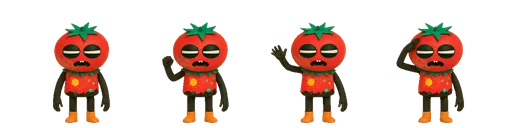
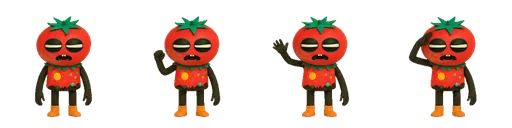
Step 8: the eight bearings and her actions. Her four south facing actions (victory, respawn, cooling, shade drop) re centred on import: her figure slid 60 px across each 256 cell and its feet sat at four heights, now every frame stands on the idle sheet's centre line and foot line, the anchors moved
Claude-Session: https://claude.ai/code/session_01Dzsq6VcPFwq6xCHe23LKTg

diff --git a/index.html b/index.html
@@ -551,7 +551,7 @@ const ASSET_PATHS={
   card_morning_tide:'art/worlds/morning_tide/card.webp', card_midday_blaze:'art/worlds/midday_blaze/card.webp',
   card_tide_pools:'art/worlds/tide_pools/card.webp', card_dunes_at_dusk:'art/worlds/dunes_at_dusk/card.webp', card_eclipse:'art/worlds/eclipse/card.webp',
   hero_s:'art/hero/tomato_s.webp', hero_se:'art/hero/tomato_se.webp', hero_e:'art/hero/tomato_e.webp', hero_ne:'art/hero/tomato_ne.webp', hero_n:'art/hero/tomato_n.webp',
-  hero_respawn:'art/hero/tomato_respawn.webp', hero_victory:'art/hero/tomato_victory.webp', hero_states:'art/hero/exposure_states.webp', face_neutral:'art/hero/face_neutral.webp',
+  hero_respawn:'art/hero/tomato_respawn.webp', hero_victory:'art/hero/tomato_victory.webp', hero_cooling:'art/hero/tomato_cooling.webp', hero_shade_drop:'art/hero/tomato_shade_drop.webp', hero_states:'art/hero/exposure_states.webp', face_neutral:'art/hero/face_neutral.webp',
   trail_classic:'art/hero/trails/ember.png', trail_cool:'art/hero/trails/cool.png', trail_mint:'art/hero/trails/aloe.png', trail_rainbow:'art/hero/trails/rainbow.png',
 };
 /* loaded on demand: each world's ground, horizon, decor sheet and key art; the Angry Sun; the share frames */
@@ -564,6 +564,7 @@ const ASSET_LAZY={
   angry_glare:'art/sun/angry_sun_glare.webp', angry_wind_up:'art/sun/angry_sun_wind_up.webp', angry_lunge:'art/sun/angry_sun_lunge.webp',
   angry_panting:'art/sun/angry_sun_panting.webp', corona:'art/sun/eclipse_corona.webp',
   share_result:'art/sharing/result_square.webp', share_daily:'art/sharing/daily_card.webp',
+  hero_victory_big:'art/hero/tomato_victory_big.webp',
   m_gold:'art/ui/medal_gold.svg', m_silver:'art/ui/medal_silver.svg', m_bronze:'art/ui/medal_bronze.svg',
   sock_shell:'art/ui/progress_shell.png', sock_cone:'art/ui/progress_cone.png', sock_gem:'art/ui/progress_gem.png',
   body_strawberry:'art/hero/strawberry_body.webp', body_orange:'art/hero/orange_body.webp', body_lemon:'art/hero/lemon_body.webp', body_lime:'art/hero/lime_body.webp', body_peach:'art/hero/peach_body.webp', body_cherry:'art/hero/cherry_body.webp', body_bellpepper:'art/hero/bell_pepper_body.webp', body_eggplant:'art/hero/eggplant_body.webp', body_avocado:'art/hero/avocado_body.webp', body_heirloom:'art/hero/heirloom_body.webp', body_pickle:'art/hero/pickle_body.webp', body_golden:'art/hero/golden_body.webp', body_sunburn:'art/hero/sunburn_body.webp',
@@ -668,7 +669,7 @@ const COSMETICS=[
   {id:'crown',name:'Sun Crown',cat:'hat',price:600,color:'#ffd23f',kind:'crown'},
   // exclusive hats — earned by 100%-collecting a whole world (not buyable)
   {id:'shell_crown',name:'Shell Crown',cat:'hat',price:null,earn:0,color:'#f7a8c4',kind:'shell'},
-  {id:'cone_hat',name:'Ice-Cream Hat',cat:'hat',price:null,earn:1,kind:'cone'},
+  {id:'cone_hat',name:'Ice Cream Hat',cat:'hat',price:null,earn:1,kind:'cone'},
   {id:'cool_shades',name:'Cool Shades',cat:'hat',price:null,earn:2,color:'#20242c',kind:'shades'},
   {id:'gem_crown',name:'Gem Crown',cat:'hat',price:null,earn:3,color:'#37b6e0',kind:'gem'},
   {id:'eclipse_halo',name:'Eclipse Halo',cat:'hat',price:null,earn:4,color:'#b48aff',kind:'eclipse'},
@@ -848,7 +849,7 @@ function startLevel(i,opts){ opts=opts||{}; const L=opts.level||LEVELS[i]; li=(o
   const ch=startCharges(L); const feel=FEEL();
   // tag umbrella casters with facing index for wind re-tilt
   let fi=0; const facings={}; for(const c of L.casters){ if(c[0]==='U'){ c.__fi=fi; facings[fi]=c[4]; fi++; } }
-  run={ L,t:0,az:L.sun.azC,deaths:0,screenT:0,darkT:0,slowT:0,shake:0,lastSafe:true,grazeT:0,sinceSafe:0,graceT:1.0,
+  run={ L,t:0,act:null,hotAt:-9,az:L.sun.azC,deaths:0,screenT:0,darkT:0,slowT:0,shake:0,lastSafe:true,grazeT:0,sinceSafe:0,graceT:1.0,
         rings:[],floats:[],flash:0,flashC:'255,80,40',
         shadePolys:[],shadeEll:[],popups:[],trail:[],parts:[],facings,
         movers:(L.movers||[]).map(m=>({...m})),
@@ -962,7 +963,7 @@ function doDash(){ const f=run.feel; if(P.dashStock>0){P.dashStock--;} else { if
   freeze=Math.max(freeze, save.settings.reduce?0.03:0.045); // dash hitstop — the burst "fires"
   spawnParts(P.x,P.y,7,'255,210,150',150,0.35);
   if(!save.settings.reduce) run.shake=Math.max(run.shake,0.06); }
-function drop(){ if(run.charges.shade>0){ run.popups.push({x:P.x,y:P.y,r:82}); run.charges.shade--; SFX.shade(); spawnParts(P.x,P.y,8,'80,120,180',120,0.5); sync(); } else SFX.deny(); }
+function drop(){ if(run.charges.shade>0){ run.popups.push({x:P.x,y:P.y,r:82}); run.charges.shade--; act('shade_drop'); SFX.shade(); spawnParts(P.x,P.y,8,'80,120,180',120,0.5); sync(); } else SFX.deny(); }
 function spf(){ if(run.charges.spf>0&&run.screenT<=0){ run.screenT=run.feel.spfDur||2.6; run.charges.spf--; SFX.spf(); sync(); } else SFX.deny(); }
 function ice(){ if(run.charges.ice>0&&run.slowT<=0){ run.slowT=3.0; run.charges.ice--; SFX.ice(); sync(); } else SFX.deny(); }
 function sync(){ setC('bShade','cShade',run.charges.shade); setC('bScreen','cScreen',run.charges.spf); setC('bIce','cIce',run.charges.ice); }
@@ -1057,6 +1058,10 @@ function update(dt){ const L=run.L, f=run.feel; run.t+=dt;
   rate += lungeBurn;
   P.exp=clamp(P.exp+rate*dt,0,f.burnThreshold);
   if(P.exp>=f.burnThreshold){ burn(); return; }
+  // the cooling beat: hot in the sun (half the meter or more), then standing still in shade, he fans himself once
+  if(!safe&&P.exp>=50) run.hotAt=run.t;
+  if(run.act){ run.act.t+=dt; if(run.act.t>=4/ACT_FPS[run.act.k]) run.act=null; }
+  else if(safe&&run.hotAt>0&&run.t-run.hotAt<1.5&&Math.hypot(P.vx,P.vy)<30&&P.dashT<=0&&run.respawnT<=0){ act('cooling'); run.hotAt=-9; }
 
   // ---- pickups: beams (combo), pops ----
   const pr=(run.magnet?2:1)*f.pickupR;
@@ -1101,7 +1106,7 @@ function burn(){ if(run.coolerBox){ run.coolerBox=false; P.exp=0; P.vx=0;P.vy=0;
   run.deaths++; save.totalBurns++; persist(); burnStrip('Burned at '+run.t.toFixed(1)+' s'); run.shake=save.settings.reduce?0:0.58; freeze=save.settings.reduce?0:0.09;
   SFX.burn(); spawnParts(P.x,P.y,24,'255,80,40',190,0.75); spawnRing(P.x,P.y,'255,95,55',72,0.5); screenFlash('255,55,30',0.55);
   run.burnFx={x:P.x,y:P.y,t:0}; run.respawnT=save.settings.reduce?0:0.4;
-  run.combo=0; P.exp=0; P.x=run.cp.x; P.y=run.cp.y; P.vx=0;P.vy=0; P.dashT=0; P.dashCd=0; P.dashStock=0; run.sinceSafe=0; run.spawnAt=run.t;
+  run.combo=0; run.act=null; P.exp=0; P.x=run.cp.x; P.y=run.cp.y; P.vx=0;P.vy=0; P.dashT=0; P.dashCd=0; P.dashStock=0; run.sinceSafe=0; run.spawnAt=run.t;
   run.screenT=Math.max(run.screenT,run.feel.respawnGrace); run.trail.length=0; fxAt('respawn_flash',P.x,P.y,96,0.4); }
 
 const MEDAL={gold:'art/ui/medal_gold.svg',silver:'art/ui/medal_silver.svg',bronze:'art/ui/medal_bronze.svg'};
@@ -1134,6 +1139,7 @@ function winLevel(){ mode='win'; const L=run.L; SFX.win(); stopMusic(); freeze=0
   $('winEarn').innerHTML=`<div class="earnLine">+ ${earn} aloe ${mk('aloe')}</div>`+(first?`<div class="earnLine">first clear bonus</div>`:'');
   $('winNext').style.display=(!endless && nextLevelIndex()!==-1)?'':'none';
   run.winInfo={name:L.name, world:L.world, t:run.t, par:L.par, medal, isNewBest, deaths:run.deaths, finds:fcw, kind:collectOf(L.world).kind, endless, daily:!!dailyKey};
+  run.winInfo.at=performance.now(); need('hero_victory_big');
   need(dailyKey?'share_daily':'share_result'); need('m_'+medal); need('sock_'+run.winInfo.kind);
   $('play-ui').classList.add('hidden'); showScreen('win'); updateWallet(); drawWinCard();
 }
@@ -1143,17 +1149,20 @@ function winLevel(){ mode='win'; const L=run.L; SFX.win(); stopMusic(); freeze=0
 const CARD_LAYOUT={
   result:{frame:'share_result',win:[100,290,880,540],bands:[[80,222,920,52],[80,866,920,70],[80,950,920,64]]},
   daily:{frame:'share_daily',win:[100,376,880,484],bands:[[80,238,920,58],[80,306,920,58],[80,900,920,100]]} };
-function drawWinCard(){ const c=$('winCv'); if(!c||!run||!run.winInfo) return; drawPostcard(c,run.winInfo); }
-function drawPostcard(c,w){ const g=c.getContext('2d'), S=c.width/1080, Lay=CARD_LAYOUT[w.daily?'daily':'result'];
+function drawWinCard(){ const c=$('winCv'); if(!c||!run||!run.winInfo) return; const w=run.winInfo;
+  const f=save.settings.reduce?3:Math.min(3,Math.floor((performance.now()-(w.at||0))*ACT_FPS.victory/1000));
+  drawPostcard(c,w,f); if(f<3&&screen==='win') requestAnimationFrame(drawWinCard); }
+const cardTmp=document.createElement('canvas'); cardTmp.width=cardTmp.height=256; const cardTx=cardTmp.getContext('2d');
+function drawPostcard(c,w,vf){ if(vf==null) vf=3; const g=c.getContext('2d'), S=c.width/1080, Lay=CARD_LAYOUT[w.daily?'daily':'result'];
   g.clearRect(0,0,c.width,c.height);
   const wx=Lay.win[0]*S, wy=Lay.win[1]*S, ww=Lay.win[2]*S, wh=Lay.win[3]*S;
   g.save(); g.beginPath(); g.rect(wx,wy,ww,wh); g.clip();
   const gt=A('ground_'+WORLD_DIRS[w.world]); if(gt){ g.fillStyle=g.createPattern(gt,'repeat'); } else g.fillStyle='#ead7a0'; g.fillRect(wx,wy,ww,wh);
   g.fillStyle='rgba(101,126,148,.55)'; g.beginPath(); g.moveTo(wx+ww*0.52,wy); g.lineTo(wx+ww*0.86,wy); g.lineTo(wx+ww*0.5,wy+wh); g.lineTo(wx+ww*0.16,wy+wh); g.closePath(); g.fill();
-  const hs=wh*0.92, hx=wx+ww*0.5-hs/2, hy=wy+wh-hs*0.98, vic=A('hero_victory');
+  const hs=wh*0.92, hx=wx+ww*0.5-hs/2, hy=wy+wh-hs*0.98, tom=save.cosmetics.body==='tomato';
   g.fillStyle='rgba(0,0,0,.14)'; g.beginPath(); g.ellipse(wx+ww*0.5,wy+wh-hs*0.1,hs*0.2,hs*0.06,0,0,TAU); g.fill();
-  if(save.cosmetics.body==='tomato'&&vic){ const cw=vic.width/4; g.drawImage(vic,3*cw,0,cw,vic.height,hx,hy,hs,hs); }
-  else { const b=A('body_'+save.cosmetics.body); if(b) g.drawImage(b,hx,hy,hs,hs); }
+  const fig=tom?(A('hero_victory_big')||A('hero_victory')):A('body_'+save.cosmetics.body);
+  if(fig){ composeHero(cardTx,256,fig,4,1,tom?vf:0,tom?HAT_ANCHOR.victory[vf]:HAT_ANCHOR.s[0],0,tom); g.drawImage(cardTmp,hx,hy,hs,hs); }
   g.restore();
   const fr=A(Lay.frame); if(fr) g.drawImage(fr,0,0,c.width,c.height); else { g.strokeStyle='#8a7a56'; g.lineWidth=3; g.strokeRect(wx,wy,ww,wh); }
   const B=Lay.bands, band=(r,txt,font)=>{ g.font=font; g.fillStyle='#2b2a20'; g.textAlign='center'; g.textBaseline='middle'; g.fillText(txt,(r[0]+r[2]/2)*S,(r[1]+r[3]/2)*S); };
@@ -1392,32 +1401,41 @@ function render(){ const inPlay=(screen==='play');
    28 across (the collider stays radius 14; his legs and arms overhang it). Cells: 0 idle, 1 to 4 the walk at 8 fps,
    5 and 6 the dash at 12 fps, 7 a hop. Standing still for half a second he turns to face you. */
 /* TM HERO SOCKETS (lucid-winds tools/tomato-man-tests/astra_in.py writes this line) */
-const HAT_ANCHOR={"s":[[128,41],[128,41],[128,41],[129,41],[128,42],[128,56],[129,61],[129,39]],"se":[[131,40],[133,44],[134,48],[136,52],[136,54],[141,63],[153,64],[137,43]],"e":[[129,46],[129,46],[129,46],[129,46],[129,46],[140,60],[156,65],[133,39]],"ne":[[129,42],[129,43],[135,46],[136,46],[136,47],[144,58],[157,51],[135,40]],"n":[[129,51],[129,51],[129,51],[130,51],[129,52],[130,63],[131,46],[129,40]]};
+const HAT_ANCHOR={"s":[[128,41],[128,41],[128,41],[129,41],[128,42],[128,56],[129,61],[129,39]],"se":[[131,40],[133,44],[134,48],[136,52],[136,54],[141,63],[153,64],[137,43]],"e":[[129,46],[129,46],[129,46],[129,46],[129,46],[140,60],[156,65],[133,39]],"ne":[[129,42],[129,43],[135,46],[136,46],[136,47],[144,58],[157,51],[135,40]],"n":[[129,51],[129,51],[129,51],[130,51],[129,52],[130,63],[131,46],[129,40]],"victory":[[128,51],[128,51],[128,50],[128,51]],"respawn":[[128,114],[128,72],[128,51],[128,49]],"cooling":[[128,66],[128,56],[128,55],[128,47]],"shade_drop":[[128,49],[128,49],[128,51],[128,50]]};
 /* /TM HERO SOCKETS */
 const HERO_B=['e','se','s','sw','w','nw','n','ne'], HERO_SRC={s:'s',se:'se',e:'e',ne:'ne',n:'n',sw:'se',w:'e',nw:'ne'};
 const HERO_FLIP={sw:1,w:1,nw:1}, HAT_DIR={s:'s',se:'e',e:'e',ne:'n',n:'n',nw:'n',w:'w',sw:'w'}, HAT_COL={s:0,e:1,n:2,w:3};
 const heroTmp=document.createElement('canvas'); heroTmp.width=heroTmp.height=128; const heroTx=heroTmp.getContext('2d');
 function heroBearing(){ if(run&&run.idleT>0.5) return 's'; let a=P.face; return HERO_B[((Math.round(a/(Math.PI/4))%8)+8)%8]; }
-function drawHero(x,y){ const body=cosmetic(save.cosmetics.body), hat=cosmetic(save.cosmetics.hat);
-  const tomato=body.id==='tomato', bb=heroBearing(), src=HERO_SRC[bb];
+/* m2 step 8: her four south facing actions at their fps, played once (the physics never turned by them), each on
+   its own per frame hat anchor; the dash her crouch then her stretch held, as her manifest says (no loop). The engine
+   has no hop, so her hop cell waits. */
+const ACT_FPS={victory:8,respawn:10,cooling:8,shade_drop:8};
+function act(k){ if(!run||save.settings.reduce||save.cosmetics.body!=='tomato') return; run.act={k,t:0}; }
+/* one figure into a square scratch canvas of N px: a tomato cell of a sheet (cols by rows), or a produce body with her
+   face; the hat at the cell's anchor (her 256 px cell space), from its bearing column hc */
+function composeHero(tx,N,img,cols,rows,cell,an,hc,tomato){ const k=N/128; tx.clearRect(0,0,N,N);
+  if(tomato){ const cw=img.width/cols, ch=img.height/rows; tx.drawImage(img,(cell%cols)*cw,Math.floor(cell/cols)*ch,cw,ch,0,0,N,N); }
+  else { tx.drawImage(img,0,0,img.width,img.height,0,0,N,N); const fc=A('face_neutral'); if(fc) tx.drawImage(fc,0,40,128,128,22*k,10*k,84*k,84*k); }
+  const hat=cosmetic(save.cosmetics.hat);
+  if(hat.kind!=='none'&&an){ const hs=A('hat_'+hat.id); if(hs) tx.drawImage(hs,hc*128,0,128,128,(an[0]-64)/2*k,(an[1]-28)/2*k,64*k,64*k); } }
+function drawHero(x,y){ const body=cosmetic(save.cosmetics.body);
+  const tomato=body.id==='tomato'; let bb=heroBearing(); const src=HERO_SRC[bb];
   const sheet=tomato?A('hero_'+src):A('body_'+body.id);
   if(!sheet){ drawHeroCode(x,y); return; }
   // ground shadow and the state rings, as before
   ctx.fillStyle='rgba(0,0,0,.14)'; ctx.beginPath(); ctx.ellipse(x,y+P.r*0.8,P.r*0.95,P.r*0.4,0,0,TAU); ctx.fill();
   if(run.screenT>0){ ctx.strokeStyle='rgba(150,210,255,.95)'; ctx.lineWidth=3; ctx.beginPath(); ctx.arc(x,y,P.r+9+Math.sin(nowT*12)*1.5,0,TAU); ctx.stroke(); }
   else if(run.slowT>0){ ctx.strokeStyle='rgba(160,240,255,.8)'; ctx.lineWidth=2; ctx.beginPath(); ctx.arc(x,y,P.r+9,0,TAU); ctx.stroke(); }
-  // the cell: a respawn plays her four frames, a dash her two, walking her four, else idle
   const moving=Math.hypot(P.vx,P.vy)>30&&!(run.idleT>0.5);
-  let img=sheet, cell=0, cols=4;
-  if(tomato&&run.respawnT>0&&A('hero_respawn')){ img=A('hero_respawn'); cell=Math.min(3,Math.floor((0.4-run.respawnT)/0.1)); cols=4; }
-  else if(tomato){ cell=P.dashT>0?5+(Math.floor(nowT*12)%2):(moving&&!save.settings.reduce?1+(Math.floor(nowT*8)%4):0); }
-  const cw=img.width/cols, chh=tomato?(img===sheet?img.height/2:img.height):img.height;
-  // drawn into a small canvas first, so the exposure tint touches only the figure
-  heroTx.clearRect(0,0,128,128);
-  if(tomato) heroTx.drawImage(img,(cell%cols)*cw,Math.floor(cell/cols)*chh,cw,chh,0,0,128,128);
-  else { heroTx.drawImage(img,0,0,img.width,img.height,0,0,128,128); const fc=A('face_neutral'); if(fc) heroTx.drawImage(fc,0,40,128,128,22,10,84,84); }
-  if(hat.kind!=='none'){ const hs=A('hat_'+hat.id), an=(HAT_ANCHOR[src]||HAT_ANCHOR.s)[tomato?Math.min(cell,7):0];
-    if(hs&&an){ const hc=HAT_COL[HAT_DIR[src]]; heroTx.drawImage(hs,hc*128,0,128,128,(an[0]-64)/2,(an[1]-28)/2,64,64); } }
+  let img=sheet, rows=tomato?2:1, cell=0, an=null, hc=HAT_COL[HAT_DIR[src]];
+  const actImg=(tomato&&run.act)?A('hero_'+run.act.k):null;
+  if(tomato&&run.respawnT>0&&A('hero_respawn')){ img=A('hero_respawn'); rows=1; cell=Math.min(3,Math.floor((0.4-run.respawnT)*ACT_FPS.respawn)); an=HAT_ANCHOR.respawn[cell]; hc=0; bb='s'; }
+  else if(tomato&&P.dashT>0){ cell=(run.feel.dashDur-P.dashT)<1/12?5:6; an=HAT_ANCHOR[src][cell]; }
+  else if(actImg){ img=actImg; rows=1; cell=Math.min(3,Math.floor(run.act.t*ACT_FPS[run.act.k])); an=HAT_ANCHOR[run.act.k][cell]; hc=0; bb='s'; }
+  else if(tomato){ cell=moving&&!save.settings.reduce?1+(Math.floor(nowT*8)%4):0; an=HAT_ANCHOR[src][cell]; }
+  else an=(HAT_ANCHOR[src]||HAT_ANCHOR.s)[0];
+  composeHero(heroTx,128,img,4,rows,cell,an,hc,tomato);   // drawn small first, so the exposure tint touches only the figure
   const burnT=clamp((P.exp-25)/75,0,1);
   if(burnT>0){ heroTx.save(); heroTx.globalCompositeOperation='source-atop'; heroTx.fillStyle=`rgba(225,50,40,${(burnT*0.42).toFixed(3)})`; heroTx.fillRect(0,0,128,128); heroTx.restore(); }
   ctx.save(); ctx.translate(x,y); ctx.scale(P.sx,P.sy); if(HERO_FLIP[bb]) ctx.scale(-1,1);
